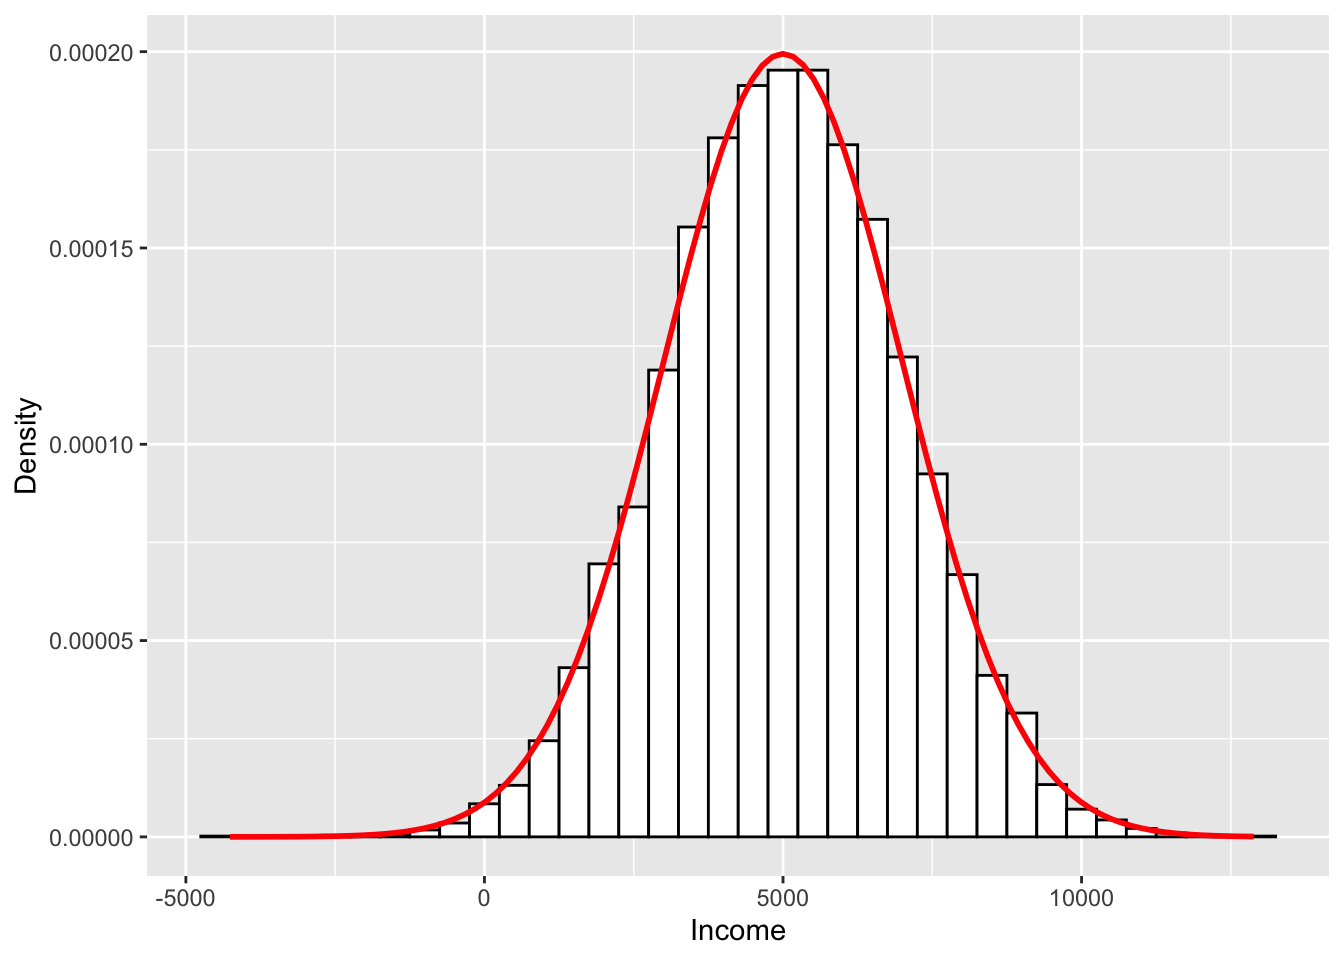
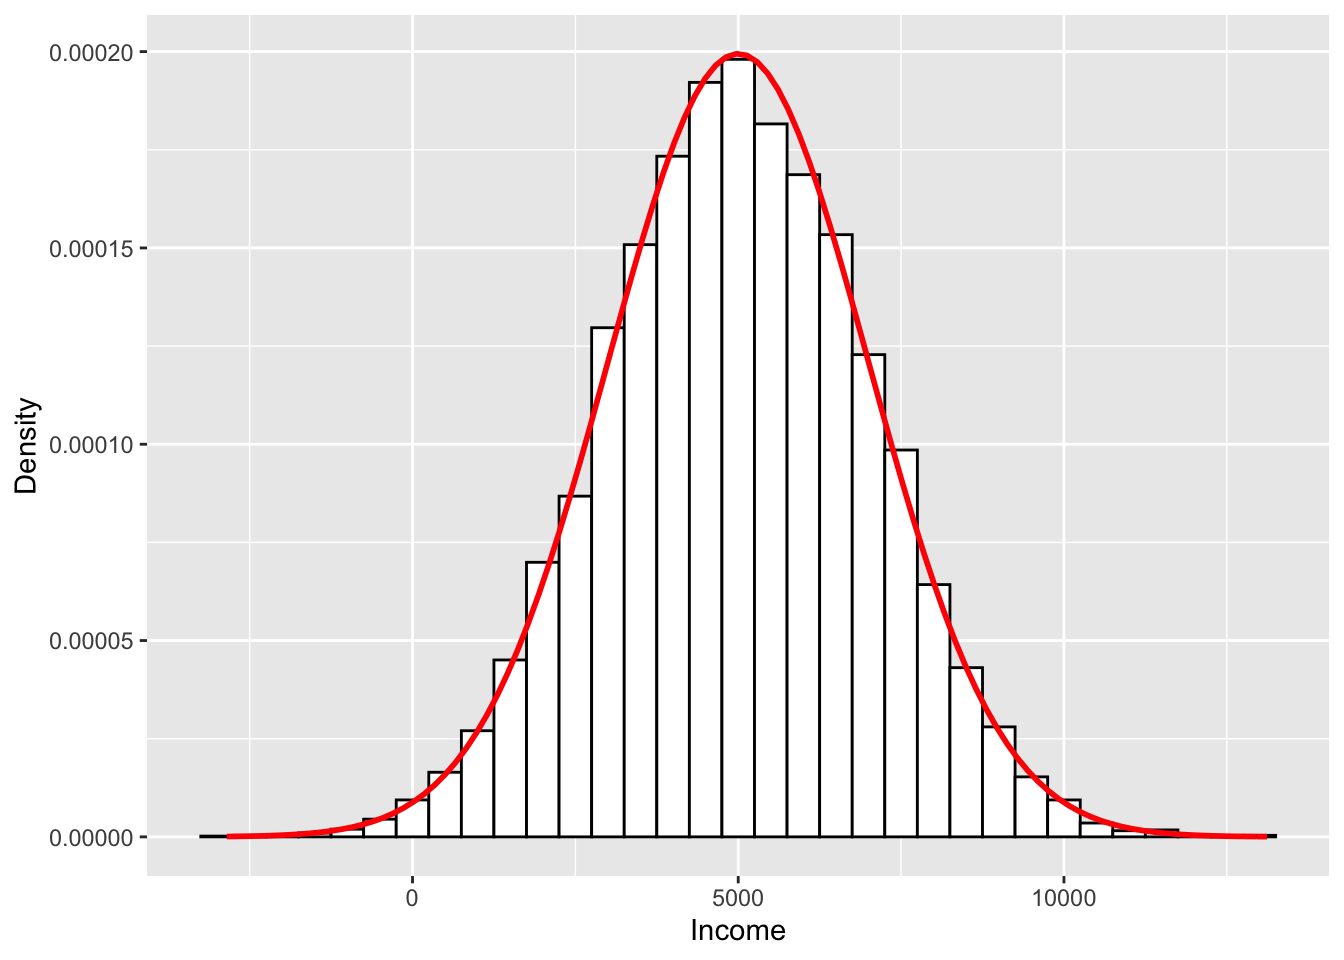
no message

diff --git a/post/page/3/index.html b/post/page/3/index.html
@@ -178,102 +178,6 @@
 
 
 </div>
-  <div class="item">
-
-    
-    
-    
-
-    
-    
-
-    <h4><a href="../../../post/creating-a-new-theme/">Creating a New Theme</a></h4>
-    <h5>September 28, 2014</h5>
-    
-<a href="https://www.jaysong.net/tags/go"><kbd class="item-tag">go</kbd></a>
-
-<a href="https://www.jaysong.net/tags/golang"><kbd class="item-tag">golang</kbd></a>
-
-<a href="https://www.jaysong.net/tags/hugo"><kbd class="item-tag">hugo</kbd></a>
-
-<a href="https://www.jaysong.net/tags/themes"><kbd class="item-tag">themes</kbd></a>
-
-
-
-</div>
-  <div class="item">
-
-    
-    
-    
-
-    
-    
-
-    <h4><a href="../../../post/goisforlovers/">(Hu)go Template Primer</a></h4>
-    <h5>April 2, 2014</h5>
-    
-<a href="https://www.jaysong.net/tags/go"><kbd class="item-tag">go</kbd></a>
-
-<a href="https://www.jaysong.net/tags/golang"><kbd class="item-tag">golang</kbd></a>
-
-<a href="https://www.jaysong.net/tags/template"><kbd class="item-tag">template</kbd></a>
-
-<a href="https://www.jaysong.net/tags/themes"><kbd class="item-tag">themes</kbd></a>
-
-<a href="https://www.jaysong.net/tags/development"><kbd class="item-tag">development</kbd></a>
-
-
-
-</div>
-  <div class="item">
-
-    
-    
-    
-
-    
-    
-
-    <h4><a href="../../../post/hugoisforlovers/">Getting Started with Hugo</a></h4>
-    <h5>April 2, 2014</h5>
-    
-<a href="https://www.jaysong.net/tags/go"><kbd class="item-tag">go</kbd></a>
-
-<a href="https://www.jaysong.net/tags/golang"><kbd class="item-tag">golang</kbd></a>
-
-<a href="https://www.jaysong.net/tags/hugo"><kbd class="item-tag">hugo</kbd></a>
-
-<a href="https://www.jaysong.net/tags/development"><kbd class="item-tag">development</kbd></a>
-
-
-
-</div>
-  <div class="item">
-
-    
-    
-    
-
-    
-    
-
-    <h4><a href="../../../post/migrate-from-jekyll/">Migrate from Jekyll</a></h4>
-    <h5>March 10, 2014</h5>
-    
-<a href="https://www.jaysong.net/tags/go"><kbd class="item-tag">go</kbd></a>
-
-<a href="https://www.jaysong.net/tags/golang"><kbd class="item-tag">golang</kbd></a>
-
-<a href="https://www.jaysong.net/tags/hugo"><kbd class="item-tag">hugo</kbd></a>
-
-<a href="https://www.jaysong.net/tags/jekyll"><kbd class="item-tag">jekyll</kbd></a>
-
-<a href="https://www.jaysong.net/tags/static-site-generator"><kbd class="item-tag">static-site-generator</kbd></a>
-
-
-
-</div>
  
 
 </main>

diff --git a/simulation/llm/index.html b/simulation/llm/index.html
@@ -207,7 +207,7 @@ library(tidyverse)</code></pre>
 <p>これで10210人のナウル国民の所得を設定した。ならば生成されたデータを見てみる。</p>
 <pre class="r"><code>summary(nauru.income)</code></pre>
 <pre><code>##    Min. 1st Qu.  Median    Mean 3rd Qu.    Max. 
-##   -4262    3682    5022    5021    6363   12883</code></pre>
+##   -2851    3620    4974    4992    6376   13117</code></pre>
 <p>ナウル国民の所得の平均は5017ドル、最小値は-1761だそうだ。「所得にマイナスなんてあり得るか！」と思うかも知れないが、細かいことは無視しよう。知りたいのは大数の法則を経験的に確認することであって、ナウル国民の所得ではない。</p>
 <p>次はヒストグラムで見てみよう。</p>
 <pre class="r"><code>plot1 &lt;- ggplot(data = data.frame(nauru.income)) + 

diff --git a/simulation/mhp/index.html b/simulation/mhp/index.html
@@ -244,8 +244,8 @@ MH.sim &lt;- function(trials = 1000){
 table(MH.Result$if.switch)</code></pre>
 <pre><code>## 
 ##    0    1 
-## 3329 6671</code></pre>
-<p>1万回のシミュレーションの結果、選択肢を変えた場合の当たり率は66.71%、変えなかった場合は33.29%であり、ほぼ2倍になることが分かる。</p>
+## 3375 6625</code></pre>
+<p>1万回のシミュレーションの結果、選択肢を変えた場合の当たり率は66.25%、変えなかった場合は33.75%であり、ほぼ2倍になることが分かる。</p>
 </div>
 </div>
 

diff --git a/tags/page/4/index.html b/tags/page/4/index.html
@@ -247,10 +247,6 @@
     
 
     
-        <a class="icon pages-icon" href="../../../tags/page/5/" rel="next">
-            <i class="fa fa-arrow-right"></i>
-        </a>
-    
 
 </div>
 
